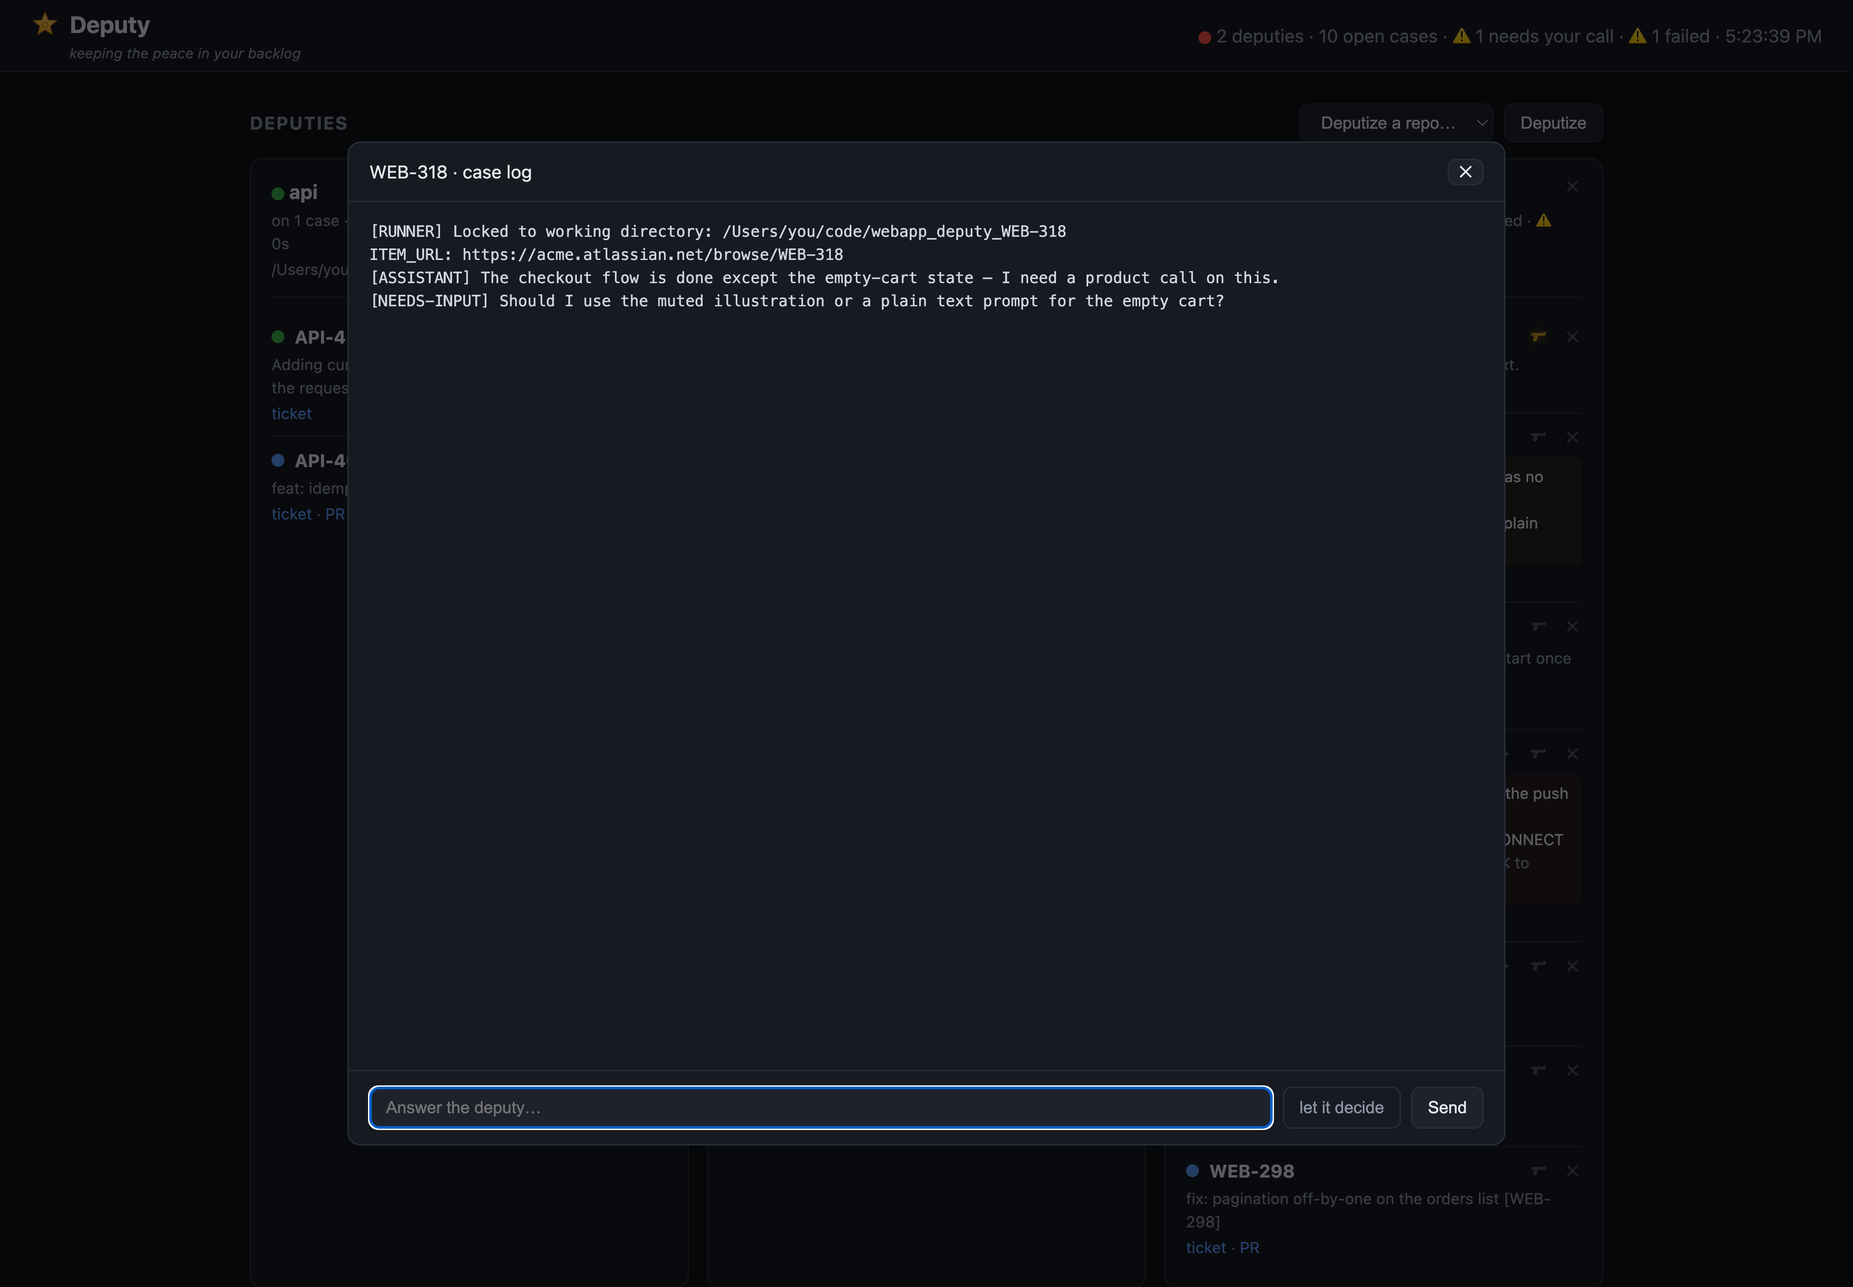
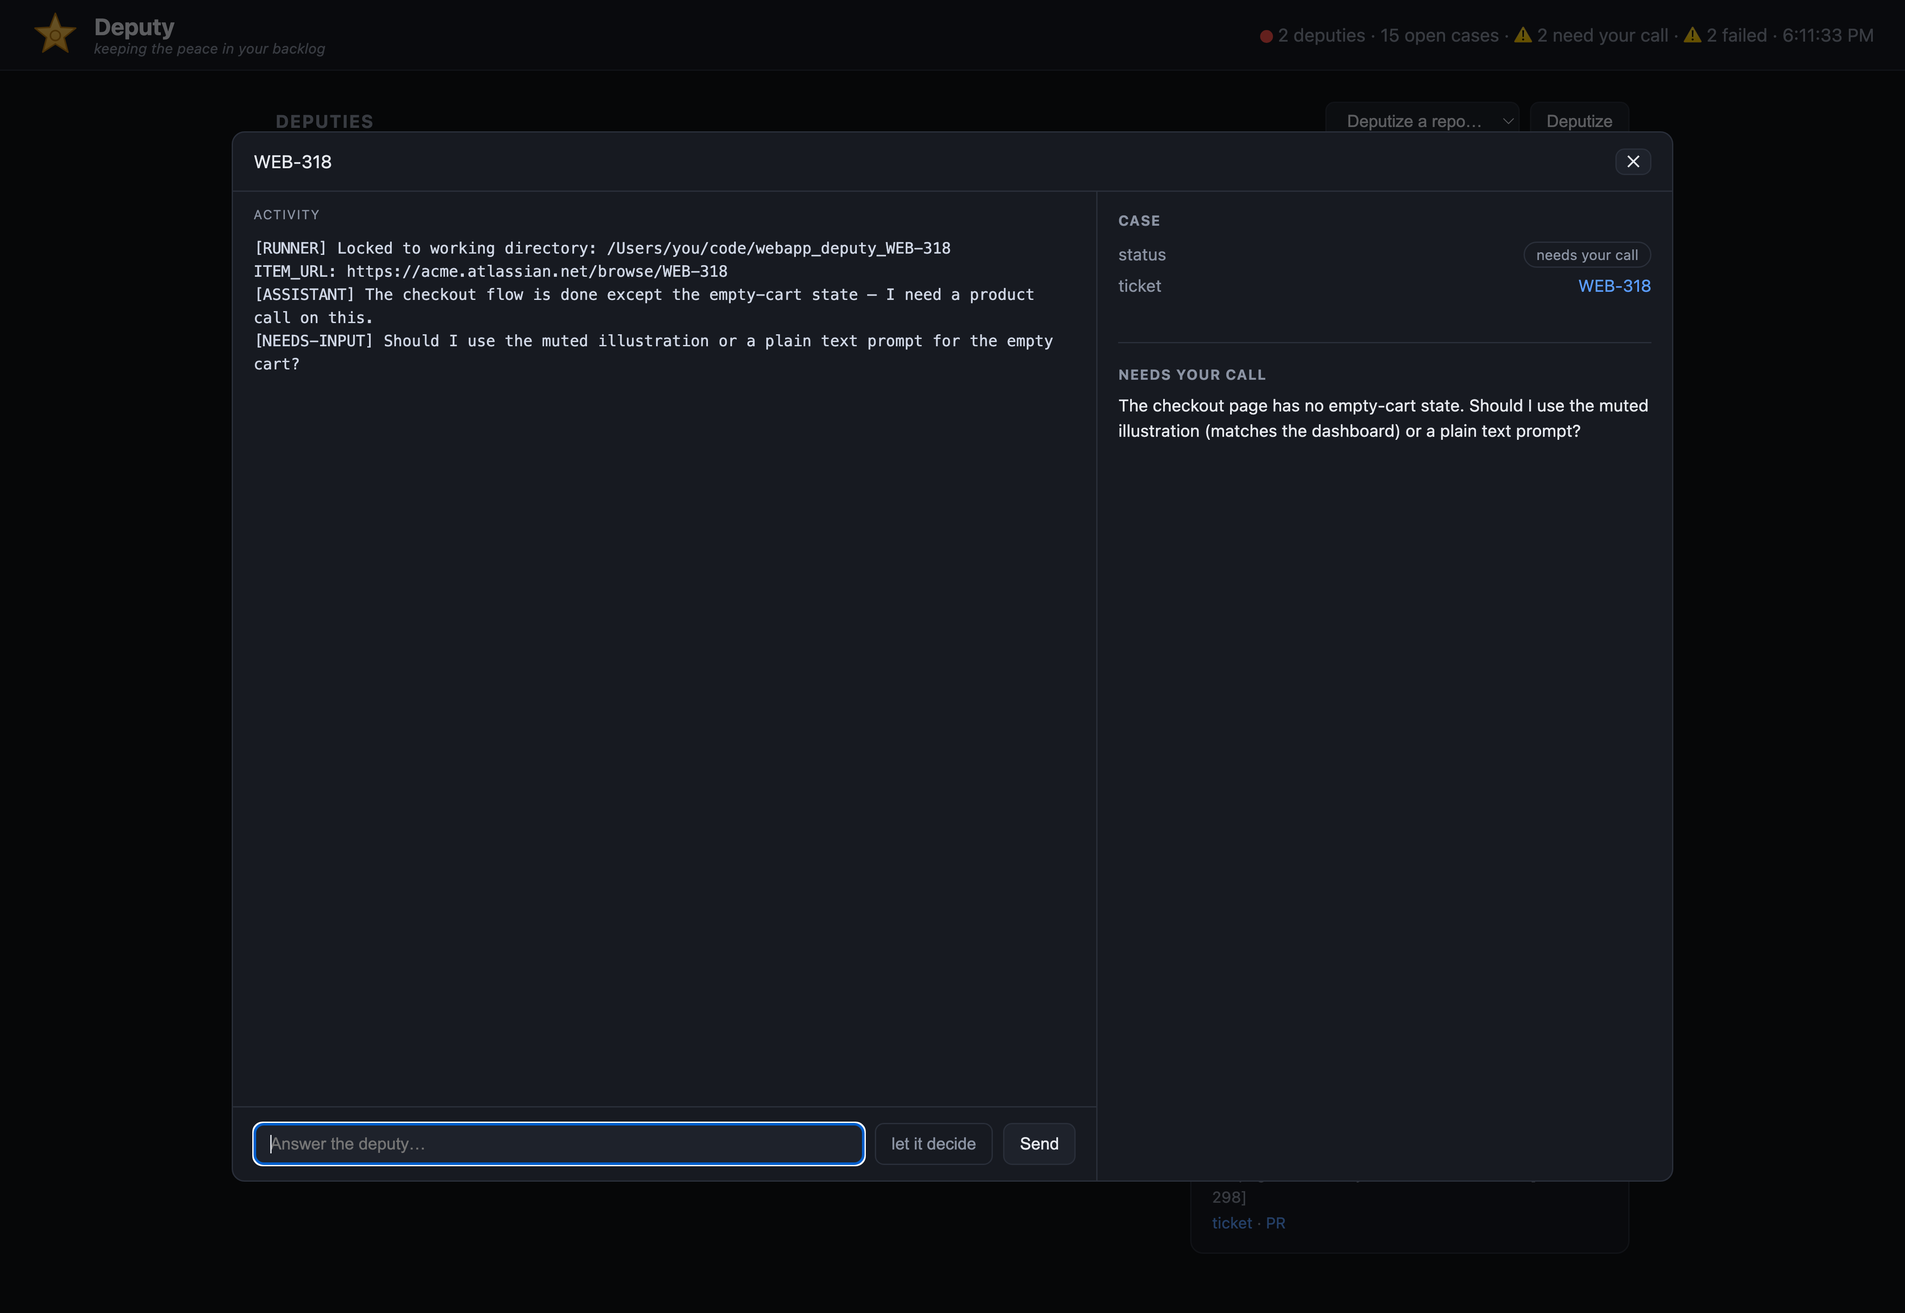
feat: two-pane case modal, stitched logs, CI auto-fix token fix, revolver, balanced demo
Dashboard modal is now two panes: left = the full Activity log (base run + every continuation
stitched in time order, so the CI-fix / follow-up activity shows — no more "nothing new"),
right = Case meta (status + ticket/PR/branch together) and contextual panes (review comments +
address-all, failure + ▶ retry, blocked, needs-your-call). Deep-link via ?case=<id>.

Daemon:
- FIX: the CI auto-fix never fired because the daemon globally exported GITHUB_TOKEN, which
  overrode gh's own auth and made `gh pr list` return [] (zero PRs seen). The token is now
  passed only to the agent (sandbox); the daemon uses its own gh. Added per-PR CI-check logging.

UI polish: revolver icon, green=working / blue=done colours, deputy header is clickable with
log + ✕ at top, ▶ re-run left of the gun with a reserved slot (aligned), bigger logo spanning
title+tagline, even card spacing, cards stop at their content.

Demo: balanced seed data across 3 deputies with every state + activity logs; hi-res (3x)
screenshots (board, mobile, chat, review, failed, needs-input) refreshed in the README.

diff --git a/server/public/app.js b/server/public/app.js
@@ -4,8 +4,8 @@ const esc = (s) => String(s).replace(/[&<>]/g, (c) => ({ '&': '&amp;', '<': '&lt
 const trunc = (s, n) => { s = String(s || ''); return s.length <= n ? esc(s) : esc(s.slice(0, n).replace(/\s+\S*$/, '')) + '…'; };
 let siteUrl = '';
 const linkTickets = (s) => esc(String(s || '')).replace(/\b([A-Z][A-Z0-9]+-\d+)\b/g, (k) => siteUrl ? `<a href="${siteUrl}/browse/${k}" target="_blank">${k}</a>` : k);
-// Sharp pistol silhouette (emoji 🔫 renders as a toy water gun on macOS).
-const GUN = '<svg viewBox="0 0 24 24" fill="currentColor" width="15" height="15" aria-hidden="true"><rect x="3" y="7" width="18" height="3.2" rx=".6"/><path d="M7 10l-1.6 6a1 1 0 0 0 1 1.3h2.4a1 1 0 0 0 1-.7L11.6 10z"/><rect x="18.4" y="5.7" width="2.6" height="2" rx=".4"/></svg>';
+// Revolver silhouette (cylinder + barrel + grip); emoji 🔫 renders as a toy water gun on macOS.
+const GUN = '<svg viewBox="0 0 24 24" fill="currentColor" width="15" height="15" aria-hidden="true"><rect x="9" y="6.4" width="12" height="2.6" rx=".5"/><circle cx="8" cy="9.6" r="3.3"/><path d="M7 12.4l-1.5 5.1a1 1 0 0 0 1 1.3h2a1 1 0 0 0 1-.75L11 12.4z"/><rect x="18.6" y="5" width="2.4" height="2" rx=".3"/></svg>';
 const X_ICON = '<svg viewBox="0 0 24 24" width="14" height="14" fill="none" stroke="currentColor" stroke-width="2.5" stroke-linecap="round" aria-hidden="true"><path d="M6 6l12 12M18 6L6 18"/></svg>';
 const PLAY = '<svg viewBox="0 0 24 24" width="14" height="14" fill="currentColor" aria-hidden="true"><path d="M7 5l12 7-12 7z"/></svg>';
 
@@ -26,8 +26,12 @@ function badge(outcome) {
 // colour (blue = working, amber = needs you, green = in review) and the content.
 // Clicking opens the live chat for a live agent, or the PR's review comments in-review.
 function openCaseModal(c) {
-  if (c.state === 'in-review') openLog({ pr: { number: c.prNumber, title: c.title, url: c.pr, branch: c.branch, ticket: c.ticket, comments: c.comments || [] }, project: c.project }, `${c.ticket} · review`);
-  else openLog({ ticket: c.ticket, needsInput: c.state === 'needs-input', blocked: c.state === 'blocked', failed: c.state === 'failed', stopped: c.state === 'stopped' }, `${c.ticket} · case log`);
+  openLog({
+    ticket: c.ticket, state: c.state, project: c.project, item: c.item, phase: c.phase, question: c.question,
+    live: c.state === 'working' || c.state === 'needs-input',
+    needsInput: c.state === 'needs-input', blocked: c.state === 'blocked', failed: c.state === 'failed', stopped: c.state === 'stopped',
+    pr: c.pr ? { number: c.prNumber, title: c.title, url: c.pr, branch: c.branch, ticket: c.ticket, comments: c.comments || [] } : null,
+  }, c.ticket);
 }
 
 function caseRow(c) {
@@ -198,25 +202,56 @@ async function openLog(target, title) {
   logTarget = target;
   pendingEcho = ''; pendingResume = false;
   $('#logTitle').textContent = title;
-  const canReply = !!((target.ticket && !target.blocked && !target.failed && !target.stopped) || target.pr);
+  // Left pane (Activity log) is always shown. Reply box: chat a live agent, or do-more / address
+  // comments on an in-review PR. Blocked/failed/stopped have no one to talk to (details on the right).
+  const live = !!target.live;
+  const canReply = live || !!target.pr;
   $('#logReply').classList.toggle('hidden', !canReply);
-  if (target.ticket) $('#replyInput').placeholder = target.needsInput ? 'Answer the deputy…' : 'Reply to this agent…';
-  if (target.pr) $('#replyInput').placeholder = (target.pr.comments || []).length ? 'Extra guidance (optional)…' : 'Tell Deputy what to do…';
+  if (canReply) $('#replyInput').placeholder = live
+    ? (target.needsInput ? 'Answer the deputy…' : 'Reply to this agent…')
+    : ((target.pr?.comments || []).length ? 'Extra guidance (or “address all” →)' : 'Tell Deputy to do more on this PR…');
   $('#letDecide').classList.toggle('hidden', !target.needsInput);
   $('#addressAll').classList.toggle('hidden', !(target.pr && (target.pr.comments || []).length));
+  renderDetails(target);
+  $('#logBody').textContent = '';
   $('#logModal').classList.remove('hidden');
   clearInterval(logTimer);
-  if (target.pr) { renderPrComments(target.pr); }
-  else { refreshLog(); logTimer = setInterval(refreshLog, 1000); }
+  refreshLog(); logTimer = setInterval(refreshLog, 1000);
   if (canReply) $('#replyInput').focus();
 }
-function renderPrComments(p) {
-  const cs = p.comments || [];
-  const head = cs.length
-    ? `${cs.length} unresolved review comment${cs.length > 1 ? 's' : ''}. Tell Deputy what to fix below; it edits the code and pushes, and never replies on the PR (that's you).\n\n`
-    : `No unresolved review comments. You can still tell Deputy to do more work on this PR below.\n\n`;
-  const list = cs.map((c) => `@${c.author}  ${c.path}${c.line ? ':' + c.line : ''}\n${c.body}\n${c.url}`).join('\n\n──────────\n\n');
-  $('#logBody').textContent = head + list;
+
+// Right pane: the contextual sections that apply to this case (status, failure, blocked,
+// needs-input, review comments, links). A daemon/patrol-log target has no case → pane hidden.
+function renderDetails(target) {
+  const d = $('#logDetails');
+  if (!target.ticket) { d.classList.add('hidden'); d.innerHTML = ''; return; }
+  const label = { working: 'working', 'needs-input': 'needs your call', blocked: 'blocked', failed: 'failed', stopped: 'stopped', 'in-review': 'in review' }[target.state] || target.state || '';
+  // One "Case" overview: status + ticket/PR/branch together.
+  const meta = [`<div class="meta-row"><span>status</span><span class="statepill">${esc(label)}</span></div>`];
+  if (target.ticket) meta.push(`<div class="meta-row"><span>ticket</span>${target.item ? `<a href="${target.item}" target="_blank">${esc(target.ticket)}</a>` : esc(target.ticket)}</div>`);
+  if (target.pr) {
+    meta.push(`<div class="meta-row"><span>PR</span><a href="${target.pr.url}" target="_blank">#${target.pr.number}</a></div>`);
+    if (target.pr.branch) {
+      const repoBase = target.pr.url.replace(/\/pull\/\d+.*$/, '');
+      meta.push(`<div class="meta-row"><span>branch</span><a href="${repoBase}/tree/${encodeURIComponent(target.pr.branch)}" target="_blank">${esc(target.pr.branch)}</a></div>`);
+    }
+  }
+  const s = [`<div class="detail"><h4>Case</h4>${meta.join('')}</div>`];
+  if (target.needsInput) s.push(`<div class="detail"><h4>Needs your call</h4><div>${esc(target.question || target.phase || '')}</div></div>`);
+  if (target.blocked) s.push(`<div class="detail"><h4>Blocked</h4><div>${linkTickets(target.phase)}</div><div class="muted">Starts once its dependency has a branch.</div></div>`);
+  if (target.failed) s.push(`<div class="detail"><h4>Failure</h4><div class="err">${esc(target.phase || 'the run failed')}</div><button class="ghost" data-retry style="margin-top:10px">▶ re-run</button></div>`);
+  if (target.stopped) s.push(`<div class="detail"><h4>Stopped</h4><div class="muted">Kept so you can bring it back.</div><button class="ghost" data-retry style="margin-top:10px">▶ re-run</button></div>`);
+  if (target.pr) {
+    const cs = target.pr.comments || [];
+    const body = cs.length
+      ? cs.map((c) => `<div class="cmt"><div class="who">@${esc(c.author)} <span class="loc">${esc(c.path)}${c.line ? ':' + c.line : ''}</span></div><div>${esc(c.body)}</div><a href="${c.url}" target="_blank">view</a></div>`).join('')
+      : `<div class="muted">No unresolved review comments.</div>`;
+    s.push(`<div class="detail"><h4>Review comments${cs.length ? ` (${cs.length})` : ''}</h4>${body}${cs.length ? `<div class="muted" style="margin-top:6px">Tell Deputy what to fix on the left — it edits + pushes, never replies on the PR.</div>` : ''}</div>`);
+  }
+  d.innerHTML = s.join('');
+  d.classList.remove('hidden');
+  const rb = d.querySelector('[data-retry]');
+  if (rb) rb.onclick = async () => { await api('/api/rerun', { method: 'POST', headers: { 'Content-Type': 'application/json' }, body: JSON.stringify({ ticket: target.ticket, project: target.project }) }); $('#logClose').click(); refresh(); };
 }
 // Build the instruction for a PR follow-up, auto-attaching the unresolved comments so
 // the agent actually sees them (you don't retype). `extra` is your optional guidance.
@@ -235,8 +270,8 @@ $('#logReply').onsubmit = async (e) => {
   const btn = e.target.querySelector('button[type=submit]');
   const message = inp.value.trim();
 
-  // A PR entry: typed = do exactly that; empty = "address all" the comments (with a confirm).
-  if (logTarget?.pr) {
+  // In-review PR (not a live agent): typed = do exactly that; empty = "address all" (with a confirm).
+  if (!logTarget?.live && logTarget?.pr) {
     const p = logTarget.pr;
     let prompt = message;
     if (!message) {
@@ -250,7 +285,7 @@ $('#logReply').onsubmit = async (e) => {
     const r = await api('/api/continue', { method: 'POST', headers: { 'Content-Type': 'application/json' }, body: JSON.stringify({ project: logTarget.project, ticket: p.ticket || `PR-${p.number}`, branch: p.branch, prompt }) });
     btn.disabled = false; btn.textContent = label;
     if (r.error) { inp.value = message; alert(r.error); }
-    else { $('#logBody').textContent += `\n\n[SENT] Deputy is on it; it'll appear as a working case.`; $('#logBody').scrollTop = $('#logBody').scrollHeight; }
+    else { pendingEcho = `[SENT] Deputy is on it — it'll show as a working case here.`; refreshLog(); }
     return;
   }
 
@@ -279,8 +314,9 @@ $('#letDecide').onclick = async () => {
   if (r.error) alert(r.error); else { pendingResume = true; $('#logBody').textContent += '\n[YOU] (let it decide)\n'; refreshLog(); }
 };
 async function refreshLog() {
-  if (!logTarget || logTarget.pr) return;
-  const q = logTarget.ticket ? `ticket=${encodeURIComponent(logTarget.ticket)}` : `daemon=${encodeURIComponent(logTarget.daemon)}`;
+  if (!logTarget) return;
+  const q = logTarget.ticket ? `ticket=${encodeURIComponent(logTarget.ticket)}` : logTarget.daemon ? `daemon=${encodeURIComponent(logTarget.daemon)}` : null;
+  if (!q) return;
   const { text } = await api(`/api/log?${q}`);
   const body = $('#logBody');
   const atBottom = body.scrollTop + body.clientHeight >= body.scrollHeight - 20;

diff --git a/server/public/styles.css b/server/public/styles.css
@@ -12,9 +12,10 @@ header {
   display: flex; align-items: center; justify-content: space-between;
   padding: 8px 24px; border-bottom: 1px solid var(--border); background: var(--panel);
 }
-h1 { font-size: 18px; margin: 0; display: inline-flex; align-items: center; gap: 8px; line-height: 1.2; }
-.logo { width: 22px; height: 22px; }
-.tag { font-size: 11px; color: var(--muted); margin-left: 30px; line-height: 1.1; font-style: italic; }
+.brand { display: flex; align-items: center; gap: 11px; }
+h1 { font-size: 18px; margin: 0; line-height: 1.2; }
+.logo { width: 38px; height: 38px; }
+.tag { font-size: 11px; color: var(--muted); line-height: 1.1; font-style: italic; }
 h2 { font-size: 14px; text-transform: uppercase; letter-spacing: .06em; color: var(--muted); margin: 0 0 12px; }
 main { padding: 24px; max-width: 1100px; margin: 0 auto; }
 section { margin-bottom: 32px; }
@@ -22,7 +23,7 @@ section { margin-bottom: 32px; }
 .section-head h2 { margin: 0; }
 .muted { color: var(--muted); }
 
-.cards { display: grid; grid-template-columns: repeat(auto-fill, minmax(320px, 1fr)); gap: 14px; }
+.cards { display: grid; grid-template-columns: repeat(auto-fill, minmax(320px, 1fr)); gap: 14px; align-items: start; }
 .card { background: var(--panel); border: 1px solid var(--border); border-radius: 10px; padding: 14px 16px; }
 .card .row { display: flex; align-items: flex-start; justify-content: space-between; gap: 8px; }
 .deputy-actions { display: flex; gap: 14px; align-items: center; }
@@ -40,10 +41,11 @@ section { margin-bottom: 32px; }
 .deputy-head:hover { background: rgba(255,255,255,.03); }
 .deputy-head h3 { transition: color .1s; }
 .deputy-head:hover h3 { color: var(--accent); }
-.recent { margin-top: 0; border-top: 1px solid var(--border); padding-top: 12px; }
+.recent { margin-top: 0; border-top: 1px solid var(--border); padding-top: 14px; }
 .recent .item { display: flex; align-items: center; gap: 8px; padding: 3px 0; font-size: 13px; }
-.case { padding: 8px 0; border-bottom: 1px solid var(--border); }
-.case:last-child { border-bottom: none; }
+.case { padding: 7px 0; border-bottom: 1px solid var(--border); }
+.case:first-child { padding-top: 0; }
+.case:last-child { border-bottom: none; padding-bottom: 0; }
 .case:hover { background: rgba(255,255,255,.025); }
 .case .question { color: var(--text); margin-top: 5px; padding: 6px 10px; border-left: 3px solid var(--warn); background: rgba(210,153,34,.08); border-radius: 6px; word-break: normal; overflow-wrap: break-word; }
 .case .question b { color: var(--warn); }
@@ -79,11 +81,30 @@ button:hover { border-color: var(--accent); }
 
 .modal { position: fixed; inset: 0; background: rgba(0,0,0,.6); display: flex; align-items: center; justify-content: center; }
 .modal.hidden { display: none; }
-.modal-box { background: var(--panel); border: 1px solid var(--border); border-radius: 10px; width: min(900px, 92vw); height: 78vh; display: flex; flex-direction: column; }
+.modal-box { background: var(--panel); border: 1px solid var(--border); border-radius: 10px; width: min(1120px, 94vw); height: 80vh; display: flex; flex-direction: column; }
 .modal-head { display: flex; justify-content: space-between; align-items: center; padding: 12px 16px; border-bottom: 1px solid var(--border); }
 .modal-head button { padding: 2px 8px; }
-#logBody { margin: 0; padding: 14px 16px; overflow: auto; flex: 1; font: 12px/1.5 "SF Mono", Menlo, monospace; white-space: pre-wrap; color: #cfd6e4; }
+.modal-panes { display: flex; flex: 1; min-height: 0; }
+.pane { display: flex; flex-direction: column; min-height: 0; min-width: 0; }
+.pane-left { flex: 1 1 60%; }
+.pane-right { flex: 1 1 40%; border-left: 1px solid var(--border); overflow: auto; padding: 14px 16px; gap: 16px; }
+.pane-right.hidden { display: none; }
+.pane-label { font-size: 10px; text-transform: uppercase; letter-spacing: .08em; color: var(--muted); padding: 10px 16px 0; }
+#logBody { margin: 0; padding: 10px 16px 14px; overflow: auto; flex: 1; font: 12px/1.5 "SF Mono", Menlo, monospace; white-space: pre-wrap; color: #cfd6e4; }
 .reply { display: flex; gap: 8px; padding: 12px 16px; border-top: 1px solid var(--border); }
+.detail { font-size: 13px; }
+.detail h4 { margin: 0 0 6px; font-size: 11px; text-transform: uppercase; letter-spacing: .06em; color: var(--muted); }
+.detail + .detail { margin-top: 16px; padding-top: 16px; border-top: 1px solid var(--border); }
+.detail .cmt { margin: 0 0 10px; }
+.detail .cmt .who { color: var(--text); } .detail .cmt .loc { color: var(--muted); font-size: 12px; }
+.detail .meta-row { display: flex; justify-content: space-between; gap: 8px; color: var(--muted); padding: 2px 0; }
+.detail .err { color: var(--text); padding: 8px 10px; border-left: 3px solid var(--fail); background: rgba(248,81,73,.08); border-radius: 6px; white-space: pre-wrap; font: 12px/1.5 "SF Mono", Menlo, monospace; }
+.statepill { display: inline-block; font-size: 11px; padding: 1px 9px; border-radius: 999px; border: 1px solid var(--border); }
+@media (max-width: 760px) {
+  .modal-box { width: 96vw; height: 90vh; }
+  .modal-panes { flex-direction: column; }
+  .pane-right { border-left: none; border-top: 1px solid var(--border); flex: 0 0 auto; max-height: 45%; }
+}
 .reply.hidden { display: none; }
 .reply input { flex: 1; background: var(--panel2); color: var(--text); border: 1px solid var(--border); border-radius: 7px; padding: 8px 12px; font-size: 13px; }
 .ghost { background: none; border: 1px solid var(--border); color: var(--muted); border-radius: 7px; padding: 8px 12px; font-size: 13px; cursor: pointer; white-space: nowrap; }

diff --git a/server/public/index.html b/server/public/index.html
@@ -10,8 +10,11 @@
 <body>
   <header>
     <div class="brand">
-      <h1><img src="/icon.svg" class="logo" alt="" /> Deputy</h1>
-      <div class="tag">keeping the peace in your backlog</div>
+      <img src="/icon.svg" class="logo" alt="" />
+      <div>
+        <h1>Deputy</h1>
+        <div class="tag">keeping the peace in your backlog</div>
+      </div>
     </div>
     <div class="muted"><span id="globalDot" class="dot"></span> <span id="updated">loading…</span></div>
   </header>
@@ -35,13 +38,19 @@
         <span id="logTitle"></span>
         <button id="logClose">✕</button>
       </div>
-      <pre id="logBody"></pre>
-      <form id="logReply" class="reply hidden">
-        <input id="replyInput" placeholder="reply to this agent…" autocomplete="off" />
-        <button type="button" id="letDecide" class="ghost hidden" title="Resume and let the deputy decide for itself">let it decide</button>
-        <button type="button" id="addressAll" class="ghost hidden" title="Fix every unresolved review comment on this PR">address all</button>
-        <button type="submit">Send</button>
-      </form>
+      <div class="modal-panes">
+        <div class="pane pane-left">
+          <div class="pane-label">Activity</div>
+          <pre id="logBody"></pre>
+          <form id="logReply" class="reply hidden">
+            <input id="replyInput" placeholder="reply to this agent…" autocomplete="off" />
+            <button type="button" id="letDecide" class="ghost hidden" title="Resume and let the deputy decide for itself">let it decide</button>
+            <button type="button" id="addressAll" class="ghost hidden" title="Fix every unresolved review comment on this PR">address all</button>
+            <button type="submit">Send</button>
+          </form>
+        </div>
+        <aside id="logDetails" class="pane pane-right hidden"></aside>
+      </div>
     </div>
   </div>
 

diff --git a/README.md b/README.md
@@ -178,6 +178,11 @@ box, or let it decide:
 
 ![A case that needs your call](docs/needs-input.png)
 
+A run that can't finish (e.g. a push that failed) is **kept and surfaced**, never lost — with
+its error and a ▶ to retry:
+
+![A failed case, kept and retryable](docs/failed.png)
+
 - **When a deputy needs your call:** if it hits something it shouldn't decide alone,
   it parks the case and surfaces its question (flagged "needs your call" on the
   dashboard). Open the case, answer in the same box, and it resumes right where it
